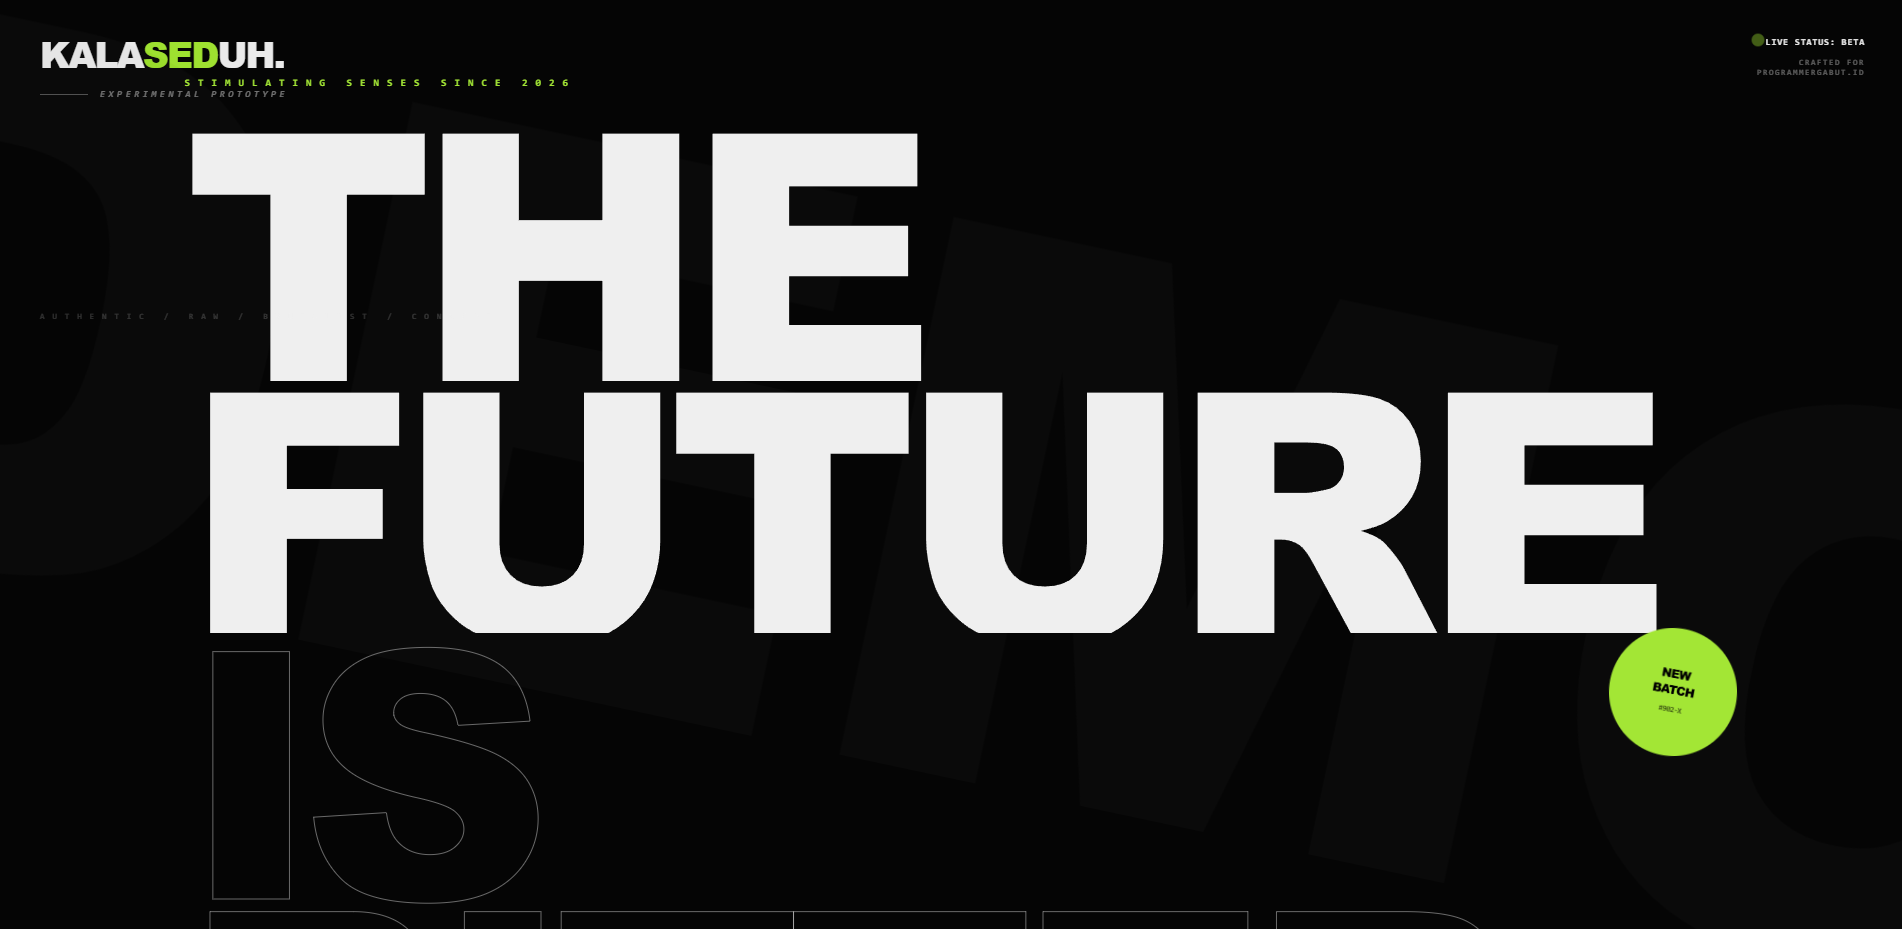
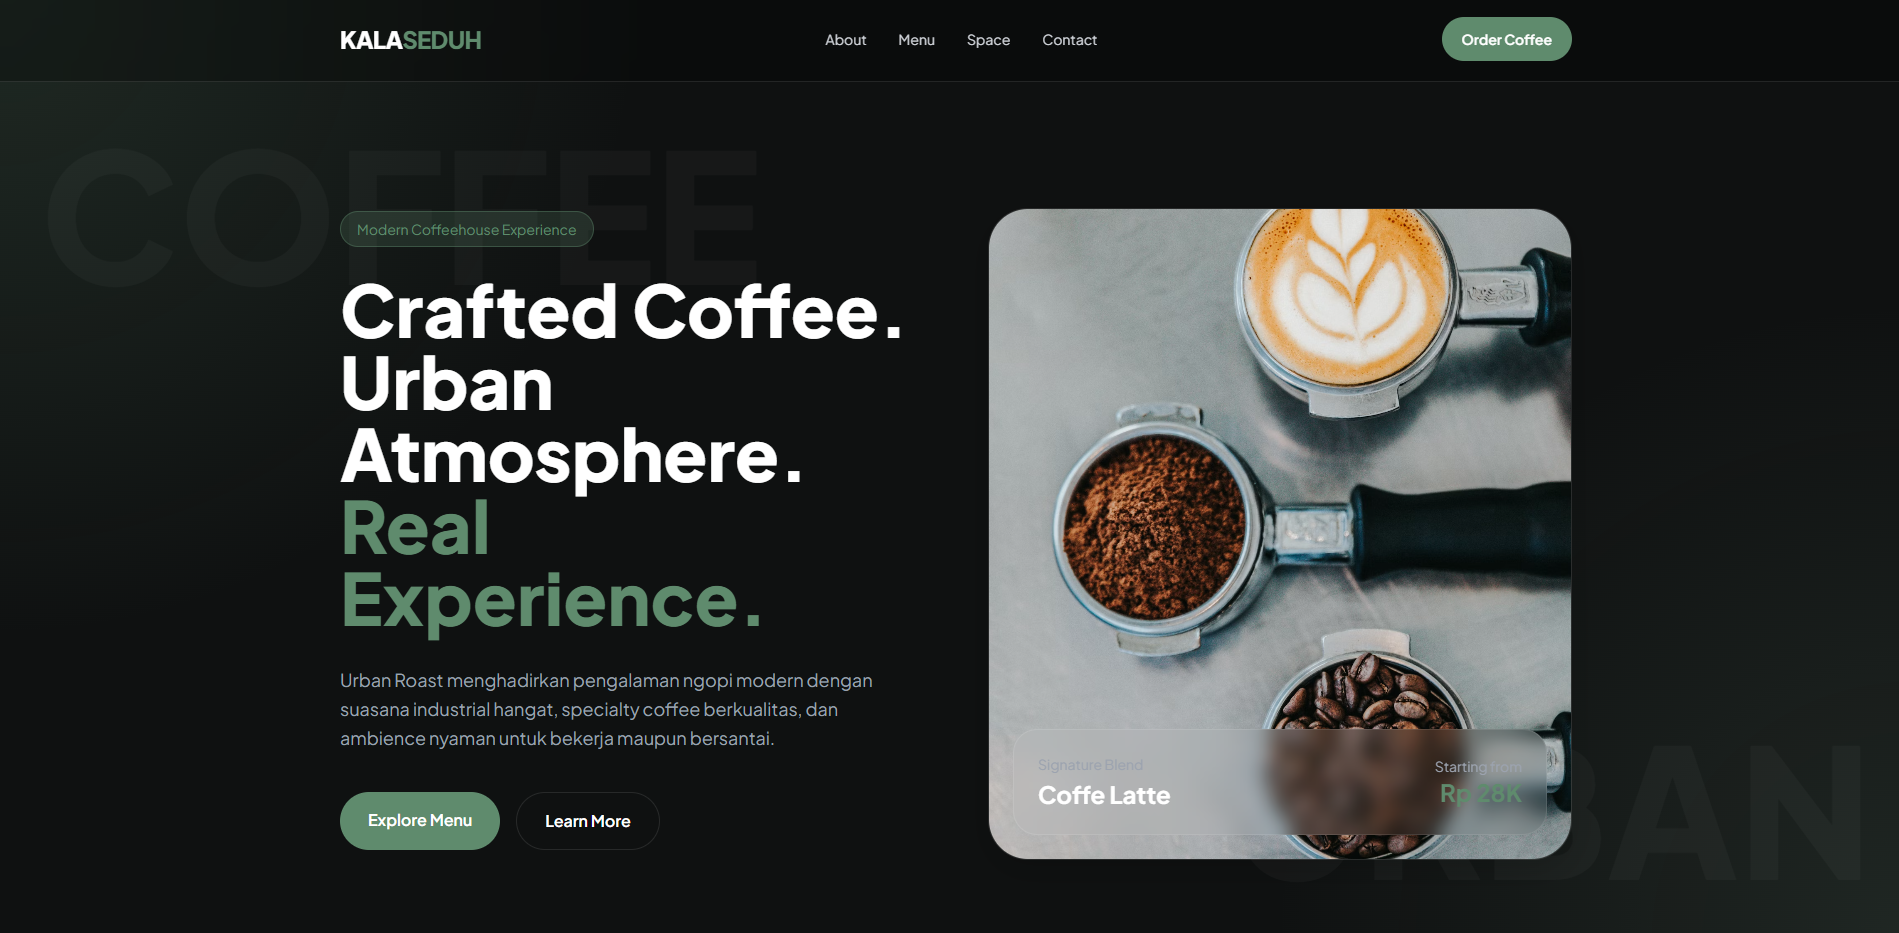
revisi gambar

diff --git a/src/sections/Hero.jsx b/src/sections/Hero.jsx
@@ -1,14 +1,23 @@
-import React, { useRef } from 'react';
-import Button from '../components/Button';
-import Container from '../components/Container';
-import { motion, useScroll, useTransform } from 'framer-motion';
+import React, { useRef } from "react";
+import Button from "../components/Button";
+import Container from "../components/Container";
+import { motion, useScroll, useTransform } from "framer-motion";
 
 const Hero = () => {
   const containerRef = useRef(null);
   const { scrollYProgress } = useScroll({
     target: containerRef,
-    offset: ["start start", "end start"]
+    offset: ["start start", "end start"],
   });
+
+  const scrollTo = (id) => {
+    const el = document.getElementById(id);
+    if (el) {
+      el.scrollIntoView({ behavior: "smooth", block: "start" });
+    } else {
+      window.location.hash = `#${id}`;
+    }
+  };
 
   const yBg = useTransform(scrollYProgress, [0, 1], ["0%", "50%"]);
   const yImage = useTransform(scrollYProgress, [0, 1], ["0%", "20%"]);
@@ -21,45 +30,79 @@ const Hero = () => {
       opacity: 1,
       transition: {
         staggerChildren: 0.1,
-        delayChildren: 0.3
-      }
-    }
+        delayChildren: 0.3,
+      },
+    },
   };
 
   const item = {
     hidden: { opacity: 0, y: 20 },
-    show: { opacity: 1, y: 0, transition: { duration: 0.8, ease: "easeOut" } }
+    show: { opacity: 1, y: 0, transition: { duration: 0.8, ease: "easeOut" } },
   };
 
   return (
-    <section ref={containerRef} id="home" className="relative pt-32 pb-20 lg:pt-48 lg:pb-32 overflow-hidden bg-gradient-soft">
+    <section
+      ref={containerRef}
+      id="home"
+      className="relative pt-32 pb-20 lg:pt-48 lg:pb-32 overflow-hidden bg-gradient-soft"
+    >
       {/* Background Shapes with Parallax */}
-      <motion.div style={{ y: yBg, opacity }} className="absolute inset-0 z-0 pointer-events-none">
+      <motion.div
+        style={{ y: yBg, opacity }}
+        className="absolute inset-0 z-0 pointer-events-none"
+      >
         <div className="absolute top-20 left-10 w-72 h-72 bg-indigo-300 rounded-full mix-blend-multiply filter blur-3xl opacity-30 animate-blob"></div>
-        <div className="absolute top-20 right-10 w-72 h-72 bg-sky-300 rounded-full mix-blend-multiply filter blur-3xl opacity-30 animate-blob" style={{ animationDelay: '2s' }}></div>
-        <div className="absolute -bottom-8 left-20 w-72 h-72 bg-pink-300 rounded-full mix-blend-multiply filter blur-3xl opacity-30 animate-blob" style={{ animationDelay: '4s' }}></div>
+        <div
+          className="absolute top-20 right-10 w-72 h-72 bg-sky-300 rounded-full mix-blend-multiply filter blur-3xl opacity-30 animate-blob"
+          style={{ animationDelay: "2s" }}
+        ></div>
+        <div
+          className="absolute -bottom-8 left-20 w-72 h-72 bg-pink-300 rounded-full mix-blend-multiply filter blur-3xl opacity-30 animate-blob"
+          style={{ animationDelay: "4s" }}
+        ></div>
       </motion.div>
 
       <Container className="relative z-10">
-        <motion.div 
+        <motion.div
           className="text-center max-w-4xl mx-auto"
           variants={textContainer}
           initial="hidden"
           animate="show"
         >
-          <motion.h1 variants={item} className="text-4xl md:text-5xl lg:text-7xl font-heading font-extrabold text-slate-900 leading-tight mb-6">
-            We Build <span className="text-gradient">Modern Websites</span> That Grow Your Business
+          <motion.h1
+            variants={item}
+            className="text-4xl md:text-5xl lg:text-7xl font-heading font-extrabold text-slate-900 leading-tight mb-6"
+          >
+            We Build <span className="text-gradient">Modern Websites</span> That
+            Grow Your Business
           </motion.h1>
-          <motion.p variants={item} className="text-lg md:text-xl text-slate-600 mb-10 max-w-2xl mx-auto">
-            Website profesional, cepat, modern, dan siap meningkatkan branding serta konversi bisnis Anda ke level selanjutnya.
+          <motion.p
+            variants={item}
+            className="text-lg md:text-xl text-slate-600 mb-10 max-w-2xl mx-auto"
+          >
+            Website profesional, cepat, modern, dan siap meningkatkan branding
+            serta konversi bisnis Anda ke level selanjutnya.
           </motion.p>
-          <motion.div variants={item} className="flex flex-col sm:flex-row items-center justify-center gap-4">
-            <Button variant="primary" className="w-full sm:w-auto text-lg px-8 py-4">Mulai Project</Button>
-            <Button variant="secondary" className="w-full sm:w-auto text-lg px-8 py-4">Lihat Portfolio</Button>
+          <motion.div
+            variants={item}
+            className="flex flex-col sm:flex-row items-center justify-center gap-4"
+          >
+            <Button
+              variant="primary"
+              className="w-full sm:w-auto text-lg px-8 py-4"
+              onClick={() => scrollTo("contact")}
+            >
+              Mulai Project
+            </Button>
+            <Button
+              variant="secondary"
+              className="w-full sm:w-auto text-lg px-8 py-4"
+              onClick={() => scrollTo("projects")}
+            >
+              Lihat Portfolio
+            </Button>
           </motion.div>
         </motion.div>
-
-
       </Container>
     </section>
   );

diff --git a/index.html b/index.html
@@ -6,17 +6,17 @@
     <meta name="viewport" content="width=device-width, initial-scale=1.0" />
     
     <!-- Primary Meta Tags -->
-    <title>WebStudio | Jasa Pembuatan Website Profesional & Modern</title>
-    <meta name="title" content="WebStudio | Jasa Pembuatan Website Profesional & Modern" />
-    <meta name="description" content="WebStudio adalah agency web development yang menyediakan jasa pembuatan website profesional, cepat, responsif, dan SEO friendly untuk bisnis dan perusahaan Anda." />
+    <title>SiteKita</title>
+    <meta name="title" content="SiteKita | Jasa Pembuatan Website Profesional & Modern" />
+    <meta name="description" content="SiteKita adalah agency web development yang menyediakan jasa pembuatan website profesional, cepat, responsif, dan SEO friendly untuk bisnis dan perusahaan Anda." />
     <meta name="keywords" content="jasa pembuatan website, web developer, web agency indonesia, buat website profesional, web design modern, ui ux design, web app" />
-    <meta name="author" content="WebStudio" />
+    <meta name="author" content="SiteKita" />
     <meta name="robots" content="index, follow" />
 
     <!-- Open Graph / Facebook -->
     <meta property="og:type" content="website" />
-    <meta property="og:url" content="https://webstudio.id/" />
-    <meta property="og:title" content="WebStudio | Jasa Pembuatan Website Profesional" />
+    <meta property="og:url" content="https://sitekita.id/" />
+    <meta property="og:title" content="SiteKita | Jasa Pembuatan Website Profesional" />
     <meta property="og:description" content="Solusi website modern, cepat, responsif, dan SEO friendly untuk meningkatkan konversi dan branding bisnis Anda." />
 
     <!-- Preconnect to Google Fonts for performance -->
